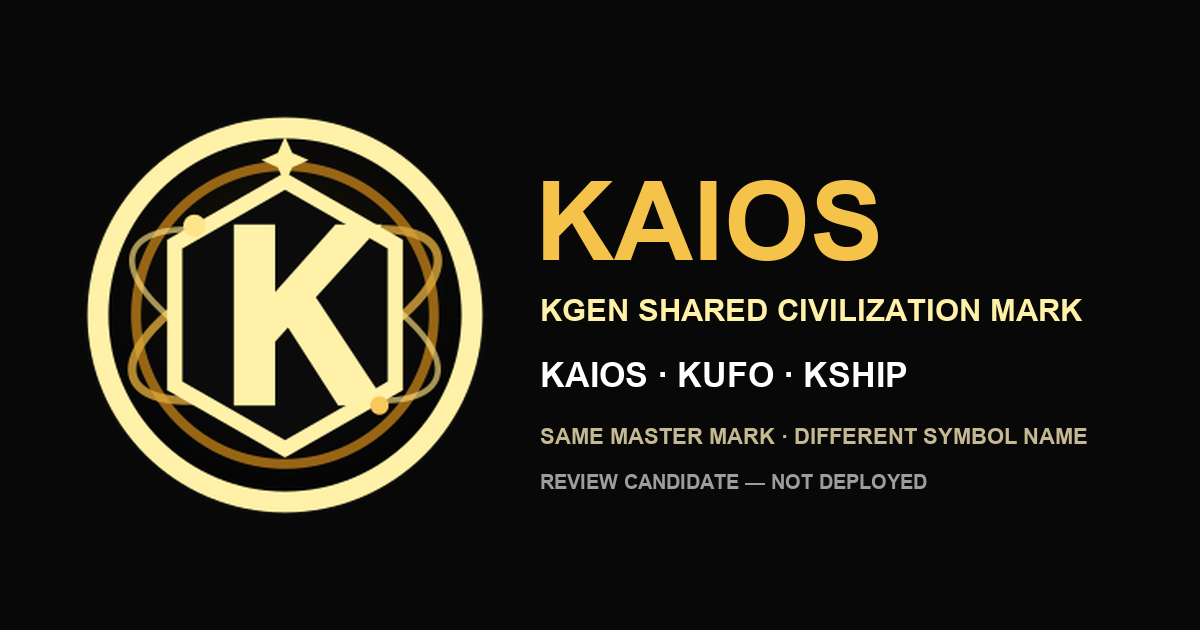
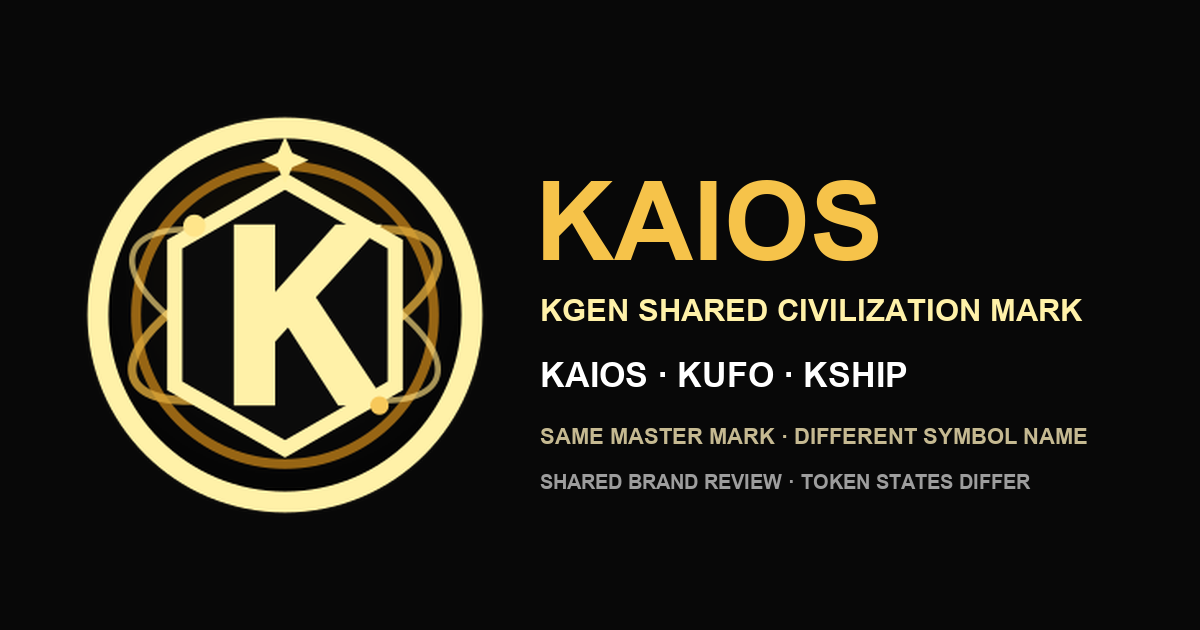
docs(brand): bind KAIOS metadata to approved shared mark

Changed region(s): [[0.4317, 0.754, 0.8633, 0.7841]]

diff --git a/tools/generate-kaios-brand-assets.py b/tools/generate-kaios-brand-assets.py
@@ -44,7 +44,7 @@ def og_card() -> Image.Image:
     draw.text((540, 292), "KGEN SHARED CIVILIZATION MARK", font=font(31), fill="#fff1a8")
     draw.text((540, 356), "KAIOS · KUFO · KSHIP", font=font(34), fill="#ffffff")
     draw.text((540, 424), "SAME MASTER MARK · DIFFERENT SYMBOL NAME", font=font(22), fill="#c5b991")
-    draw.text((540, 470), "REVIEW CANDIDATE — NOT DEPLOYED", font=font(20), fill="#9d9d9d")
+    draw.text((540, 470), "SHARED BRAND REVIEW · TOKEN STATES DIFFER", font=font(20), fill="#9d9d9d")
     return image
 
 
@@ -99,9 +99,38 @@ manifest = {
     "masterRasterAsset": "assets/kgen/kgen-logo-256.png",
     "sharedMark": True,
     "source": "Repository canonical KGEN black-gold mark; no third-party visual assets",
-    "licenseStatus": "HUMAN_APPROVAL_EVIDENCE_REQUIRED",
+    "licenseStatus": "HUMAN_APPROVED_REPOSITORY_OWNED_MASTER_MARK",
+    "humanVisualDirection": {
+        "decisionId": "KAIOS_HENGYAO_MASTER_COMPANY_AND_11520_GPU_REAL_MARKET_WORK_ORDER_V3_FINAL",
+        "decision": "SAME_MASTER_MARK_DIFFERENT_SYMBOL_NAMES",
+        "authorizedBy": "沈英明",
+        "signedAtUtc": "2026-08-27T04:17:44Z",
+        "status": "HUMAN_APPROVED",
+    },
     "websiteReplacementAuthorized": False,
     "externalMetadataSubmissionStatus": "NOT_SUBMITTED_ACCOUNT_OWNERSHIP_GATE",
+    "tokenMetadata": {
+        "network": "BNB Smart Chain Mainnet",
+        "chainId": 56,
+        "address": "0xD4E67B3a69e41524c424150E6b6e921b01D036db",
[1 lines of base64/hex data omitted]
+        "name": "KAIOS Civilization Credit",
+        "symbol": "KAIOS",
+        "decimals": 18,
+        "tokenStatus": "MAINNET_LIVE",
+        "marketStatus": "NO_VERIFIED_PAIR_AT_OBSERVED_BLOCK",
+        "priceStatus": "UNAVAILABLE",
+        "observedBlock": 118404108,
+        "observedAtUtc": "2026-08-27T15:01:55Z",
+        "logo": "assets/kaios/kaios-token-512.png",
+    },
+    "externalDiscovery": {
+        "bscScanTokenInfo": "ACCOUNT_OWNERSHIP_GATE_NOT_SUBMITTED",
+        "trustWalletAssets": "NOT_SUBMITTED",
+        "pancakeTokenList": "NOT_SUBMITTED",
+        "coinMarketCap": "NOT_SUBMITTED",
+        "coinGecko": "NOT_SUBMITTED",
+    },
     "assets": [record(path) for path in asset_paths],
 }
 write_text_lf(OUT / "brand-manifest.json", json.dumps(manifest, indent=2) + "\n")
@@ -124,11 +153,13 @@ write_text_lf(
     OUT / "README.md",
     """# KAIOS / KUFO / KSHIP shared brand review candidate
 
-Status: `REVIEW_CANDIDATE_NOT_CURRENT`.
+Status: `REVIEW_CANDIDATE_NOT_CURRENT`; shared visual direction: `HUMAN_APPROVED`.
 
-Candidate visual direction is `SAME_KGEN_MASTER_MARK_DIFFERENT_SYMBOL_NAMES`; independently verifiable Human approval evidence remains required before CURRENT promotion. The canonical black-gold KGEN mark in `assets/kgen/kgen-logo.svg` is the visual master. KAIOS, KUFO and KSHIP reuse the same graphic; their symbol, contract address, lineage and deployment status remain separate metadata fields.
+The Human-approved visual direction is `SAME_KGEN_MASTER_MARK_DIFFERENT_SYMBOL_NAMES`, recorded by decision ID `KAIOS_HENGYAO_MASTER_COMPANY_AND_11520_GPU_REAL_MARKET_WORK_ORDER_V3_FINAL`. The canonical black-gold KGEN mark in `assets/kgen/kgen-logo.svg` is the visual master. KAIOS, KUFO and KSHIP reuse the same graphic; their symbol, contract address, lineage and deployment status remain separate metadata fields.
 
-The identical mark does not imply identical contracts, fungibility, conversion, deployment, price or authority. This Draft does not replace the website or submit token metadata to BscScan, MetaMask, CoinMarketCap or CoinGecko. BscScan submission currently remains gated by an authenticated account and contract-address ownership verification.
+KAIOS is live on BSC chain 56 at `0xD4E67B3a69e41524c424150E6b6e921b01D036db`, but the latest fixed-endpoint observation found no verified KAIOS/WBNB, KAIOS/KGEN or KAIOS/USDT pair. Therefore `TOKEN_LIVE`, `MARKET_NOT_LIVE` and `PRICE_UNAVAILABLE` are separate states. The identical mark does not imply identical contracts, fungibility, conversion, deployment, price or authority.
+
+This Draft does not replace the website or submit token metadata to BscScan, MetaMask, Trust Wallet, PancakeSwap, CoinMarketCap or CoinGecko. External submissions remain gated by the relevant authenticated account, ownership proof and platform review.
 
 All PNG token marks have transparent backgrounds. The 512-pixel KAIOS, KUFO and KSHIP token images are pixel-identical by design. Recommended alt text is token-specific even when the graphic is shared.
 """,

diff --git a/tools/validate-kaios-brand-assets.py b/tools/validate-kaios-brand-assets.py
@@ -11,9 +11,35 @@ manifest = json.loads((OUT / "brand-manifest.json").read_text(encoding="utf-8"))
 assert manifest["status"] == "REVIEW_CANDIDATE_NOT_CURRENT"
 assert manifest["visualSystem"] == "SAME_KGEN_MASTER_MARK_DIFFERENT_SYMBOL_NAMES"
 assert manifest["sharedMark"] is True
-assert manifest["licenseStatus"] == "HUMAN_APPROVAL_EVIDENCE_REQUIRED"
+assert manifest["licenseStatus"] == "HUMAN_APPROVED_REPOSITORY_OWNED_MASTER_MARK"
+assert manifest["humanVisualDirection"] == {
+    "decisionId": "KAIOS_HENGYAO_MASTER_COMPANY_AND_11520_GPU_REAL_MARKET_WORK_ORDER_V3_FINAL",
+    "decision": "SAME_MASTER_MARK_DIFFERENT_SYMBOL_NAMES",
+    "authorizedBy": "沈英明",
+    "signedAtUtc": "2026-08-27T04:17:44Z",
+    "status": "HUMAN_APPROVED",
+}
 assert manifest["websiteReplacementAuthorized"] is False
 assert manifest["externalMetadataSubmissionStatus"] == "NOT_SUBMITTED_ACCOUNT_OWNERSHIP_GATE"
+assert manifest["tokenMetadata"] == {
+    "network": "BNB Smart Chain Mainnet",
+    "chainId": 56,
+    "address": "0xD4E67B3a69e41524c424150E6b6e921b01D036db",
[1 lines of base64/hex data omitted]
+    "name": "KAIOS Civilization Credit",
+    "symbol": "KAIOS",
+    "decimals": 18,
+    "tokenStatus": "MAINNET_LIVE",
+    "marketStatus": "NO_VERIFIED_PAIR_AT_OBSERVED_BLOCK",
+    "priceStatus": "UNAVAILABLE",
+    "observedBlock": 118404108,
+    "observedAtUtc": "2026-08-27T15:01:55Z",
+    "logo": "assets/kaios/kaios-token-512.png",
+}
+assert set(manifest["externalDiscovery"].values()) == {
+    "ACCOUNT_OWNERSHIP_GATE_NOT_SUBMITTED",
+    "NOT_SUBMITTED",
+}
 
 required = {
     "kaios-logo.svg", "kaios-logo-256.png", "kaios-token-512.png",

diff --git a/assets/kaios/README.md b/assets/kaios/README.md
@@ -1,9 +1,11 @@
 # KAIOS / KUFO / KSHIP shared brand review candidate
 
-Status: `REVIEW_CANDIDATE_NOT_CURRENT`.
+Status: `REVIEW_CANDIDATE_NOT_CURRENT`; shared visual direction: `HUMAN_APPROVED`.
 
-Candidate visual direction is `SAME_KGEN_MASTER_MARK_DIFFERENT_SYMBOL_NAMES`; independently verifiable Human approval evidence remains required before CURRENT promotion. The canonical black-gold KGEN mark in `assets/kgen/kgen-logo.svg` is the visual master. KAIOS, KUFO and KSHIP reuse the same graphic; their symbol, contract address, lineage and deployment status remain separate metadata fields.
+The Human-approved visual direction is `SAME_KGEN_MASTER_MARK_DIFFERENT_SYMBOL_NAMES`, recorded by decision ID `KAIOS_HENGYAO_MASTER_COMPANY_AND_11520_GPU_REAL_MARKET_WORK_ORDER_V3_FINAL`. The canonical black-gold KGEN mark in `assets/kgen/kgen-logo.svg` is the visual master. KAIOS, KUFO and KSHIP reuse the same graphic; their symbol, contract address, lineage and deployment status remain separate metadata fields.
 
-The identical mark does not imply identical contracts, fungibility, conversion, deployment, price or authority. This Draft does not replace the website or submit token metadata to BscScan, MetaMask, CoinMarketCap or CoinGecko. BscScan submission currently remains gated by an authenticated account and contract-address ownership verification.
+KAIOS is live on BSC chain 56 at `0xD4E67B3a69e41524c424150E6b6e921b01D036db`, but the latest fixed-endpoint observation found no verified KAIOS/WBNB, KAIOS/KGEN or KAIOS/USDT pair. Therefore `TOKEN_LIVE`, `MARKET_NOT_LIVE` and `PRICE_UNAVAILABLE` are separate states. The identical mark does not imply identical contracts, fungibility, conversion, deployment, price or authority.
+
+This Draft does not replace the website or submit token metadata to BscScan, MetaMask, Trust Wallet, PancakeSwap, CoinMarketCap or CoinGecko. External submissions remain gated by the relevant authenticated account, ownership proof and platform review.
 
 All PNG token marks have transparent backgrounds. The 512-pixel KAIOS, KUFO and KSHIP token images are pixel-identical by design. Recommended alt text is token-specific even when the graphic is shared.
